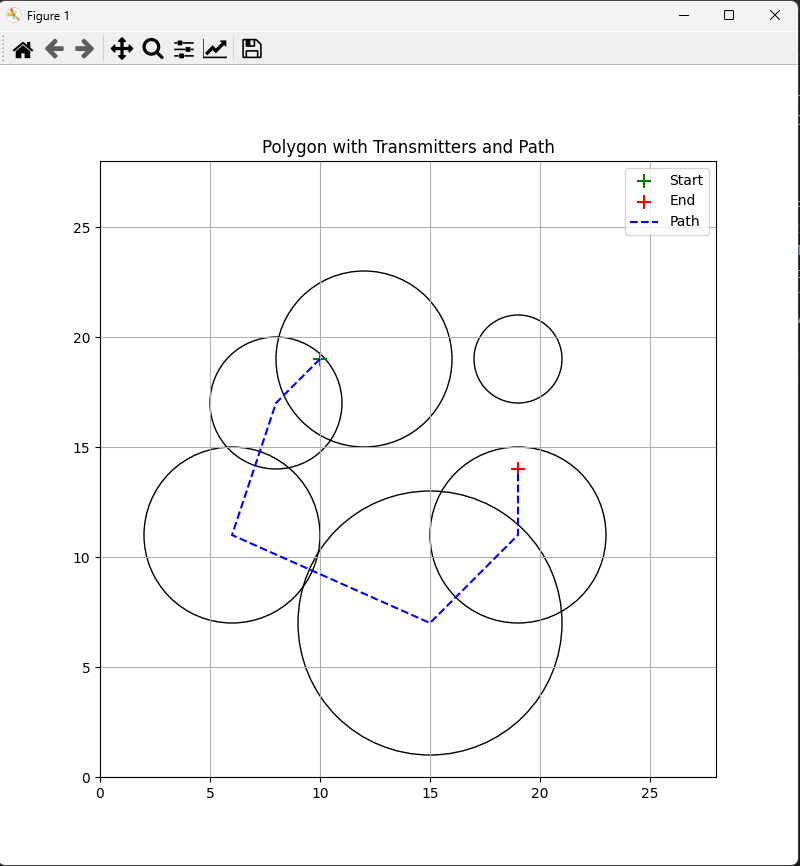
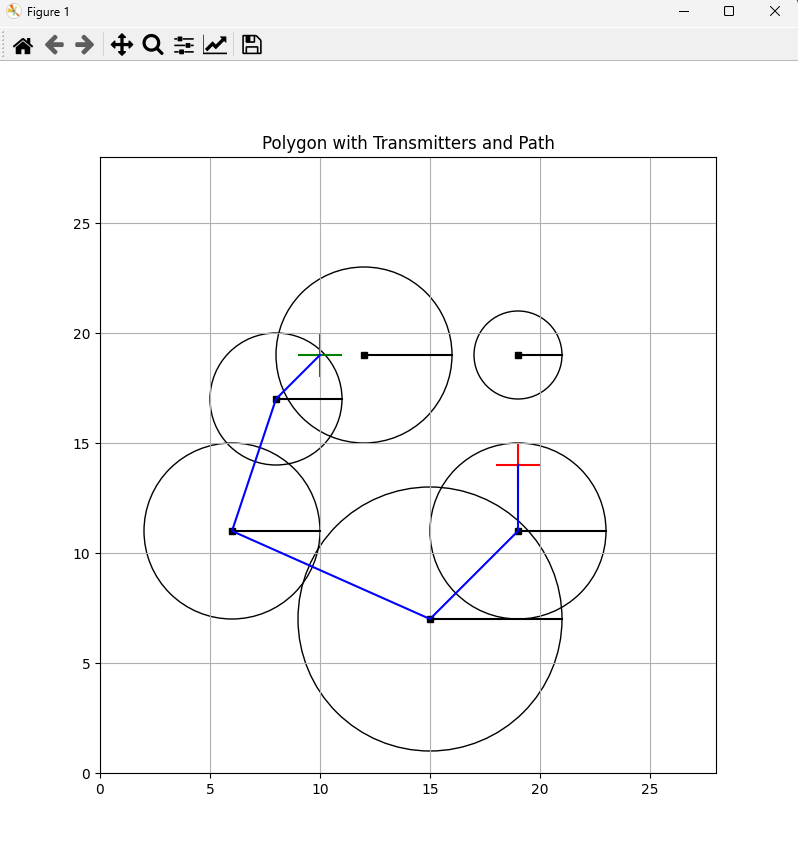
update time_measure, cleanup, update README

diff --git a/quadrocopter/utils/time_measure.py b/quadrocopter/utils/time_measure.py
@@ -8,46 +8,68 @@ from tqdm import tqdm
 from quadrocopter.model.path_finder import PathFinder
 from quadrocopter.model.utils import Transmitter, Point
 
-# Constants
-MAX_TRANSMITTERS = 1000
+MAX_TRANSMITTERS = 2000
 ITERATIONS = 100
+STEP = 50
 TIMES = []
 
 
-# Function to run path finding with random transmitters
 def run_path_finding(transmitters_count: int) -> float:
+    """
+    Run path finding with random transmitters.
+
+    Args:
+        transmitters_count (int): The number of transmitters to use.
+
+    Returns:
+        float: The elapsed time in seconds for path finding.
+    """
     max_range = transmitters_count
     max_power = max(int(transmitters_count / 14), 1)
-    _transmitters = [
-        Transmitter(Point(random.randint(0, max_range), random.randint(0, max_range)), random.randint(1, max_power)) for
-        _ in
-        range(transmitters_count)]
-    _start = random.sample(_transmitters, k=1)[0].center
-    _end = random.sample(_transmitters, k=1)[0].center
-    tp = PathFinder(start=_start, end=_end, transmitters=_transmitters)
+
+    # Generate random transmitters
+    transmitters = [
+        Transmitter(Point(random.randint(0, max_range), random.randint(0, max_range)),
+                    random.randint(1, max_power))
+        for _ in range(transmitters_count)
+    ]
+
+    # Select random start and end points
+    start_point = random.sample(transmitters, k=1)[0].center
+    end_point = random.sample(transmitters, k=1)[0].center
+
+    # Create a PathFinder instance
+    path_finder = PathFinder(start=start_point, end=end_point, transmitters=transmitters)
+
+    # Measure the time for path finding
     start_time = time.time()
-    _, path = tp.is_path_possible()
+    path_finder.is_path_possible()
     elapsed_time = time.time() - start_time
+
     return elapsed_time
 
 
-# Create data for different transmitter counts
-transmitter_counts = range(10, MAX_TRANSMITTERS + 1, 10)
-average_times = []
+def main() -> None:
+    transmitter_counts = range(10, MAX_TRANSMITTERS + 1, STEP)
+    average_times = []
 
-for transmitters_count in tqdm(transmitter_counts):
-    iteration_times = []
-    for _ in range(ITERATIONS):
-        elapsed_time = run_path_finding(transmitters_count)
-        iteration_times.append(elapsed_time)
-    average_time = np.average(iteration_times)
-    average_times.append(average_time)
+    for transmitters_count in tqdm(transmitter_counts):
+        iteration_times = []
+        for _ in range(ITERATIONS):
+            elapsed_time = run_path_finding(transmitters_count)
+            iteration_times.append(elapsed_time)
+        average_time = np.average(iteration_times)
+        average_times.append(average_time)
 
-# Plot the data
-plt.figure(figsize=(10, 6))
-plt.plot(transmitter_counts, average_times, marker='o', linestyle='-')
-plt.title('Average Path Finding Time vs. Number of Transmitters')
-plt.xlabel('Number of Transmitters')
-plt.ylabel('Average Time (seconds)')
-plt.grid(True)
-plt.show()
+    # Plot the data
+    plt.figure(figsize=(10, 6))
+    plt.plot(transmitter_counts, average_times, marker='o', linestyle='-')
+    plt.title('Average Path Finding Time vs. Number of Transmitters')
+    plt.xlabel('Number of Transmitters')
+    plt.ylabel('Average Time (seconds)')
+    plt.grid(True)
+    plt.show()
+
+
+if __name__ == "__main__":
+    main()

diff --git a/quadrocopter/model/path_finder.py b/quadrocopter/model/path_finder.py
@@ -77,19 +77,22 @@ class PathFinder:
             circle = plt.Circle((transmitter.center.x, transmitter.center.y), transmitter.power, color='black',
                                 fill=False)
             plt.gca().add_patch(circle)
+            plt.plot(transmitter.center.x, transmitter.center.y, marker='s', markersize=5, color='black')
+            radius_x = [transmitter.center.x, transmitter.center.x + transmitter.power]
+            radius_y = [transmitter.center.y, transmitter.center.y]
+            plt.plot(radius_x, radius_y, color='black')
 
-        plt.scatter([self.start.x], [self.start.y], color='green', marker='+', label='Start', s=100)
-        plt.scatter([self.end.x], [self.end.y], color='red', marker='+', label='End', s=100)
+        plt.scatter([self.start.x], [self.start.y], color='green', marker='+', label='Start', s=1000)
+        plt.scatter([self.end.x], [self.end.y], color='red', marker='+', label='End', s=1000)
 
         if path:
             path_x = [self.start.x] + [transmitter.center.x for transmitter in path] + [self.end.x]
             path_y = [self.start.y] + [transmitter.center.y for transmitter in path] + [self.end.y]
-            plt.plot(path_x, path_y, linestyle='--', marker='o', markersize=0, color='blue', label='Path')
+            plt.plot(path_x, path_y, marker='o', markersize=0, color='blue', label='Path')
 
         plt.xlim(0, 5 + max(t.center.x + t.power for t in self.transmitters))
         plt.ylim(0, 5 + max(t.center.y + t.power for t in self.transmitters))
         plt.gca().set_aspect('equal', adjustable='box')
-        plt.legend()
         plt.grid(True)
         plt.title('Polygon with Transmitters and Path')
         plt.show()

diff --git a/README.md b/README.md
@@ -1,9 +1,9 @@
-# PathFinder - Finding Paths in the Presence of Transmitters
+# Quadrocopter PathFinder - Finding Quadrocopter Path in the Presence of Transmitters
 
 ## Overview
 
-The PathFinder is a Python class designed for finding paths between points in an
-environment that contains transmitters. This class is particularly useful for scenarios where
+The Quadrocopter PathFinder is designed to find a quadrocopter's path between points in
+the presence of transmitters. It is particularly useful for scenarios where
 you need to determine if a path between two points is possible while considering the
 presence of transmitters that might obstruct the path.
 
@@ -39,7 +39,7 @@ pip install .
 |:----------------------------------------------------:|
 | Polygon with Transmitter and Path generated by code. |
 
-# The Quadrocopter Path Finder app
+# The Quadrocopter PathFinder app
 
 ## Application Overview
 
